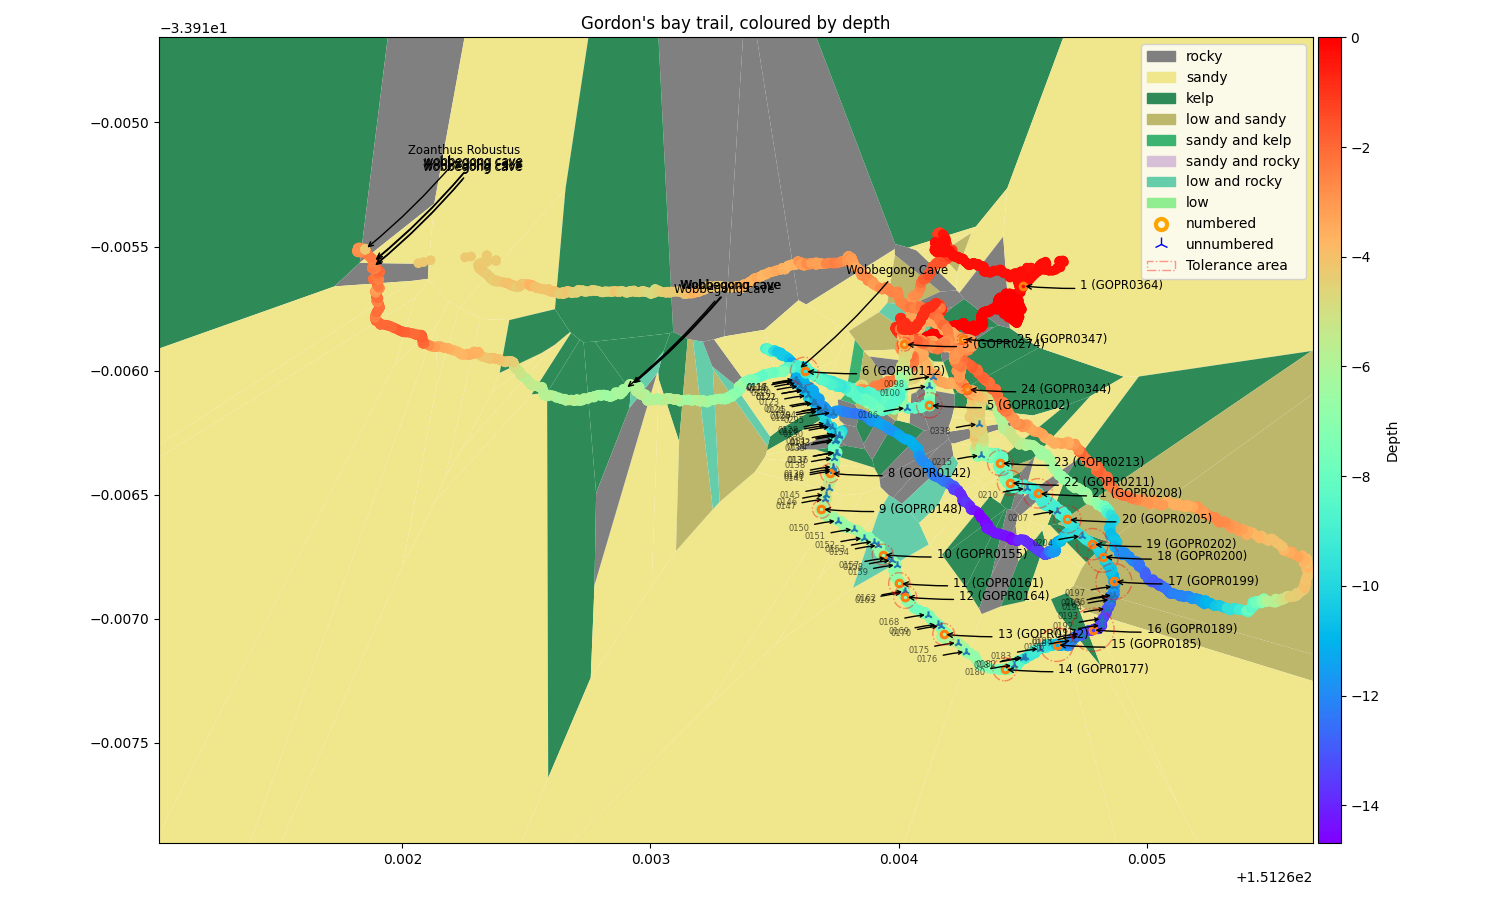
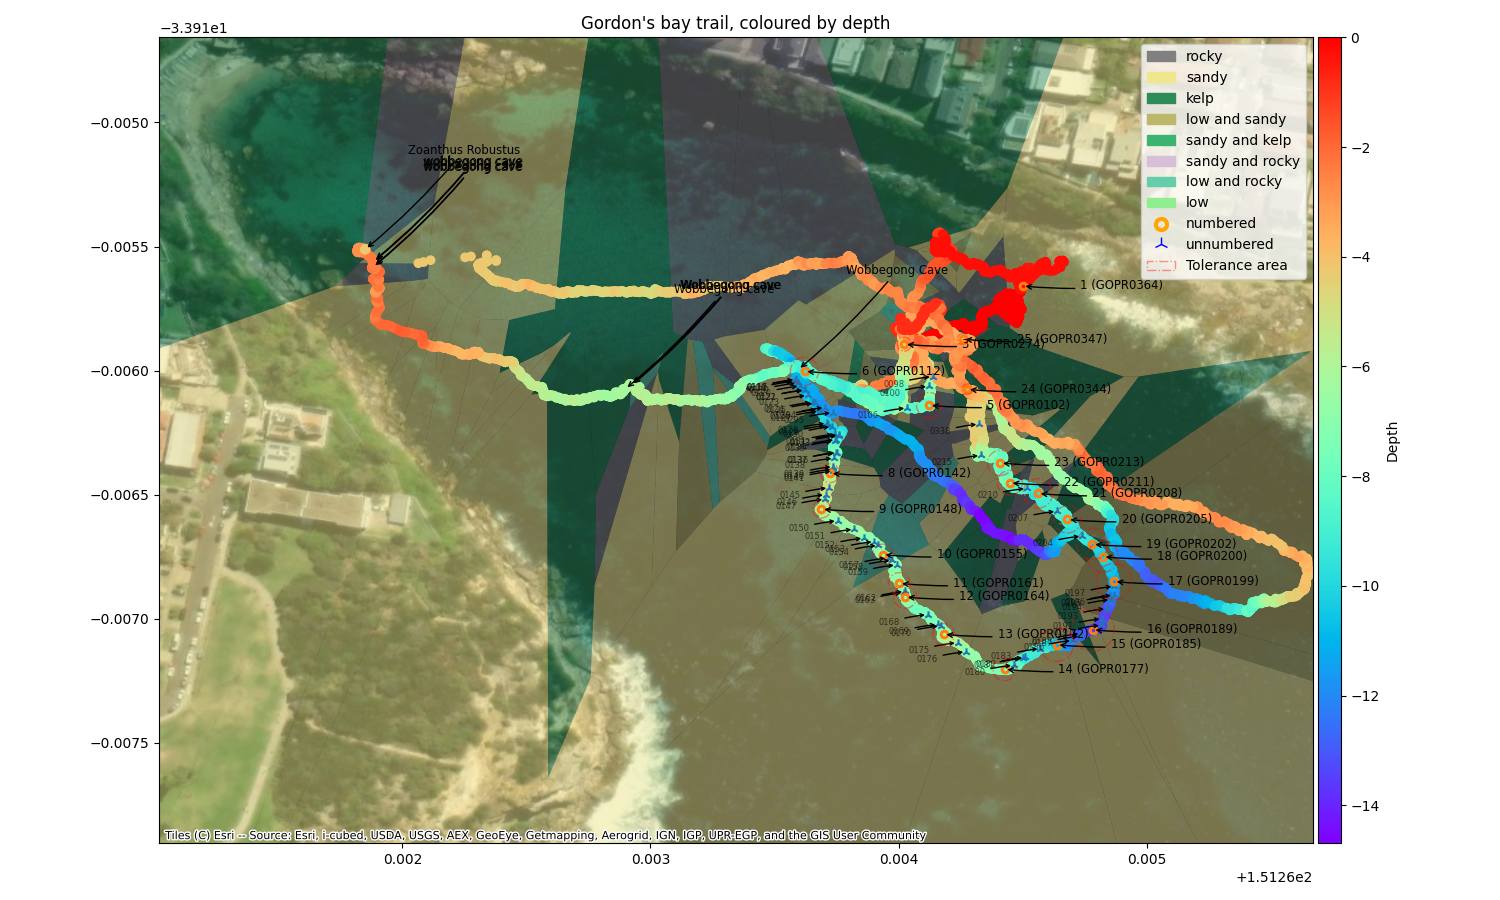
add in a base map to the background

diff --git a/mapper.py b/mapper.py
@@ -2,7 +2,9 @@
 import math
 from datetime import timedelta
 
+import contextily as cx
 import dateparser
+import ee
 import fitdecode
 import folium
 import geopandas as gp
@@ -138,7 +140,7 @@ def get_gps_data_single_dive(
 def make_dive_df(dives_lon_lat_time):
     dives_df = pd.DataFrame(dives_lon_lat_time).set_index("dt")
     dives_df["geometry"] = dives_df.apply(lambda row: Point(row.lon, row.lat), axis=1)
-    dives_gdf = gp.GeoDataFrame(dives_df)
+    dives_gdf = gp.GeoDataFrame(dives_df, crs="EPSG:4326")
     return dives_gdf
 
 
@@ -378,6 +380,7 @@ def add_intermediate_label(row):
 # %%
 fig, ax = plt.subplots(figsize=(15, 9))
 
+
 # plot the swum paths and add a colourbar
 cax = all_gdf.plot(column="depth", cmap="rainbow", ax=ax, zorder=2)
 divider = make_axes_locatable(ax)
@@ -454,6 +457,7 @@ voronoi_gdf.plot(
     # column="bottom_condition",
     color=voronoi_gdf["colour"],
     zorder=1,
+    alpha=0.5,
 )
 bounds = (
     Polygon(MultiPoint(filtered_gdf.geometry.values).envelope)
@@ -462,8 +466,16 @@ bounds = (
 )
 ax.set_xlim([bounds[0], bounds[2]])
 ax.set_ylim([bounds[1], bounds[3]])
+
 ## end voronoi
 
+ee.Authenticate()
+ee.Initialize(project="bens-dive-map")
+cx.add_basemap(ax, crs=voronoi_gdf.crs, source=cx.providers.Esri.WorldImagery)
+# ValueError: The inferred zoom level of 35 is not valid
+# for the current tile provider. This can indicate that the
+# extent of your figure is wrong (e.g. too small extent, or
+# in the wrong coordinate reference system)
 
 # add the markers
 intermediate_df.plot(ax=ax, marker="2", zorder=3)
